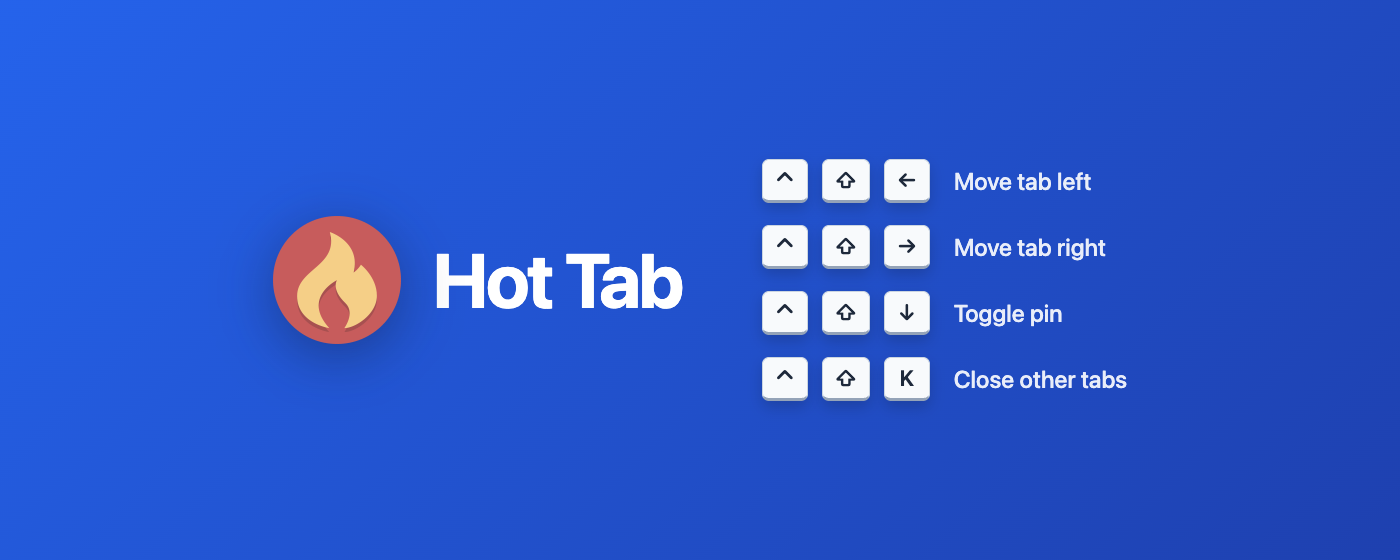
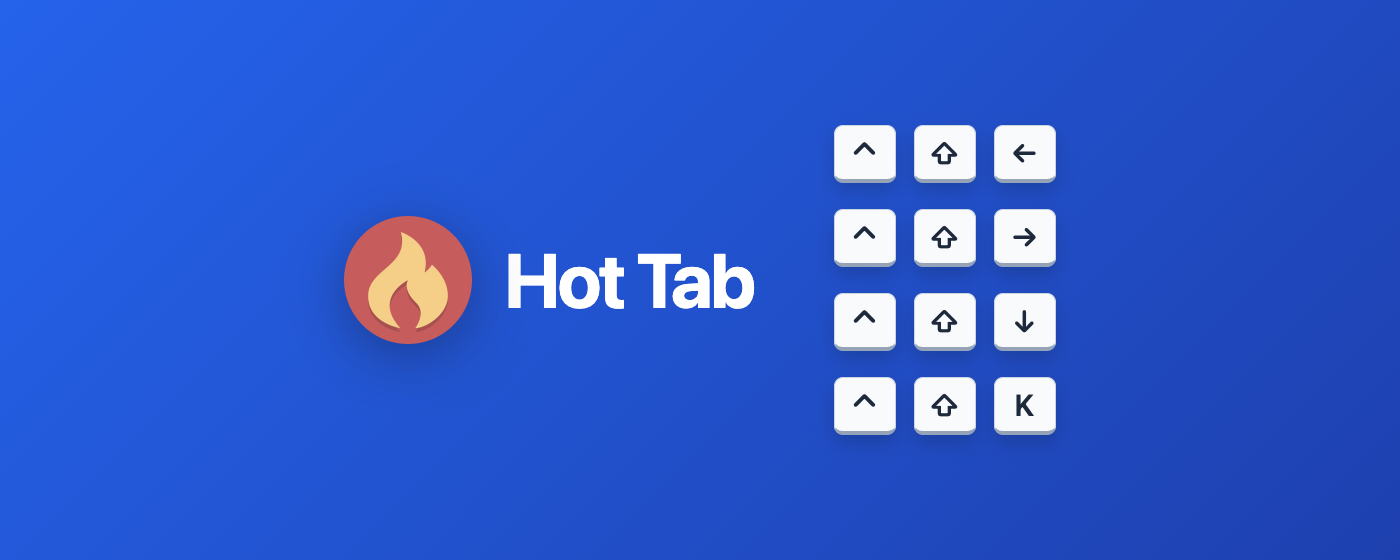
Drop command labels from the marquee promo tile
Chrome's promotional image guidance says to avoid text in promo images; the
first version carried four command-label sentences, which is explanatory copy
belonging on the screenshots, not brand imagery.

The tile is now icon, wordmark, and the twelve keycap glyphs, with the caps
enlarged to fill the space the labels vacated.

Changed region(s): [[0.1843, 0.2125, 0.8293, 0.7893]]

diff --git a/store/templates/marquee.html b/store/templates/marquee.html
@@ -62,41 +62,33 @@
       .rows {
         display: flex;
         flex-direction: column;
-        gap: 22px;
+        gap: 26px;
       }
 
       .row {
         display: flex;
         align-items: center;
-        gap: 14px;
+        gap: 18px;
       }
 
       .row kbd {
         display: inline-flex;
         align-items: center;
         justify-content: center;
-        min-width: 46px;
-        min-height: 44px;
-        padding: 8px 12px;
+        min-width: 62px;
+        min-height: 58px;
+        padding: 10px 14px;
         font-family: var(--font-family);
-        font-size: 22px;
+        font-size: 30px;
         font-weight: 600;
         line-height: 1;
         color: var(--kbd-text);
         background-color: var(--kbd-bg);
         border: 1px solid var(--kbd-border);
-        border-bottom-width: 3px;
+        border-bottom-width: 4px;
         border-bottom-color: var(--kbd-shadow);
-        border-radius: 7px;
-        box-shadow: 0 6px 14px rgba(15, 23, 42, 0.22);
-      }
-
-      .row__label {
-        margin-left: 10px;
-        color: rgba(255, 255, 255, 0.9);
-        font-size: 24px;
-        font-weight: 500;
-        white-space: nowrap;
+        border-radius: 9px;
+        box-shadow: 0 8px 18px rgba(15, 23, 42, 0.22);
       }
     </style>
   </head>
@@ -108,19 +100,15 @@
     <div class="rows">
       <div class="row">
         <kbd>&#8963;</kbd><kbd>&#8679;</kbd><kbd>&#8592;</kbd>
-        <span class="row__label">Move tab left</span>
       </div>
       <div class="row">
         <kbd>&#8963;</kbd><kbd>&#8679;</kbd><kbd>&#8594;</kbd>
-        <span class="row__label">Move tab right</span>
       </div>
       <div class="row">
         <kbd>&#8963;</kbd><kbd>&#8679;</kbd><kbd>&#8595;</kbd>
-        <span class="row__label">Toggle pin</span>
       </div>
       <div class="row">
         <kbd>&#8963;</kbd><kbd>&#8679;</kbd><kbd>K</kbd>
-        <span class="row__label">Close other tabs</span>
       </div>
     </div>
   </body>
